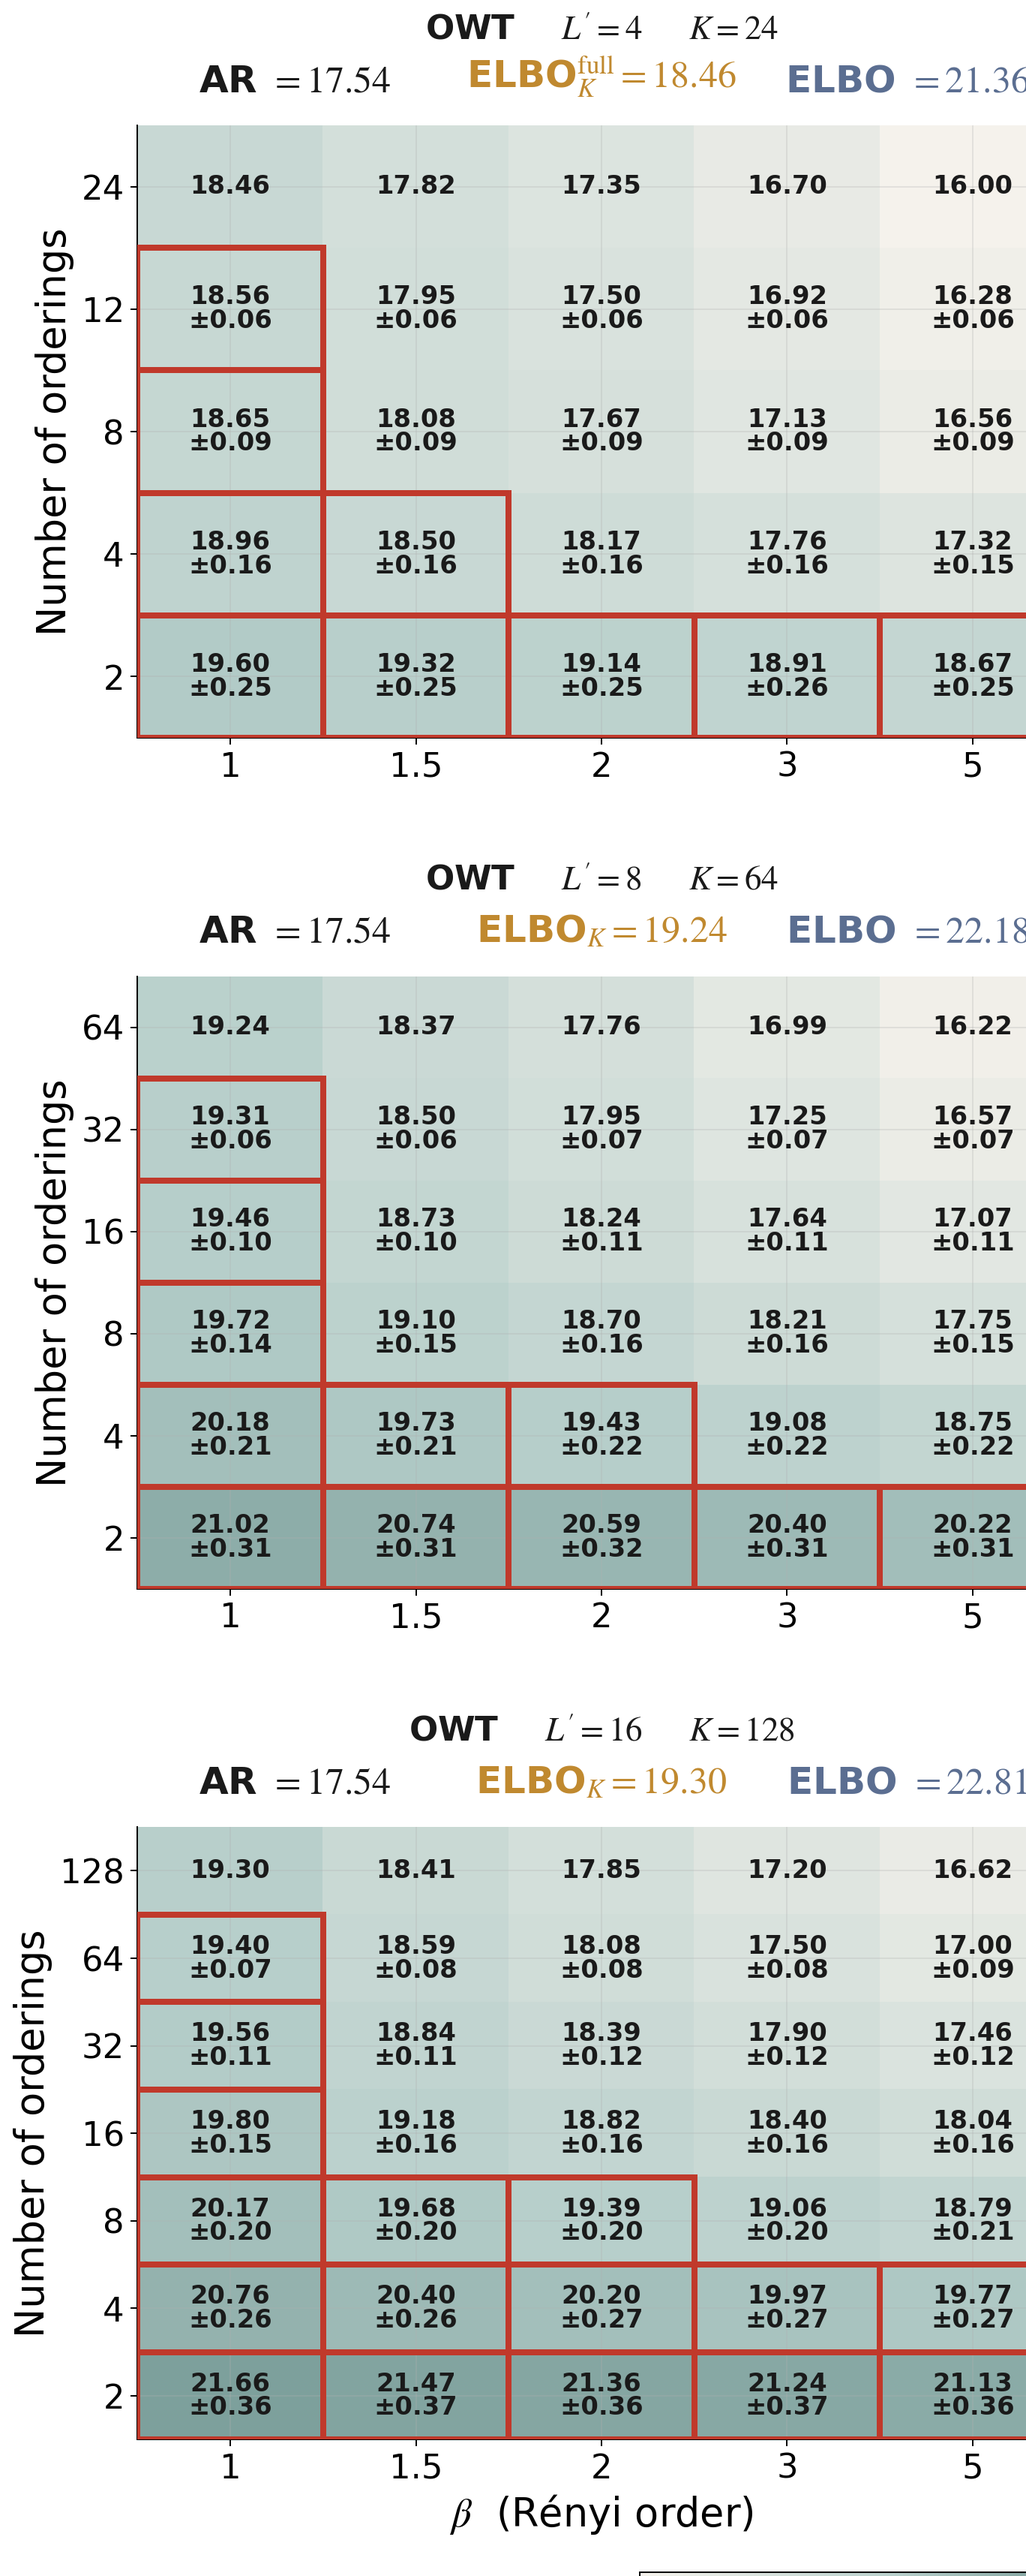
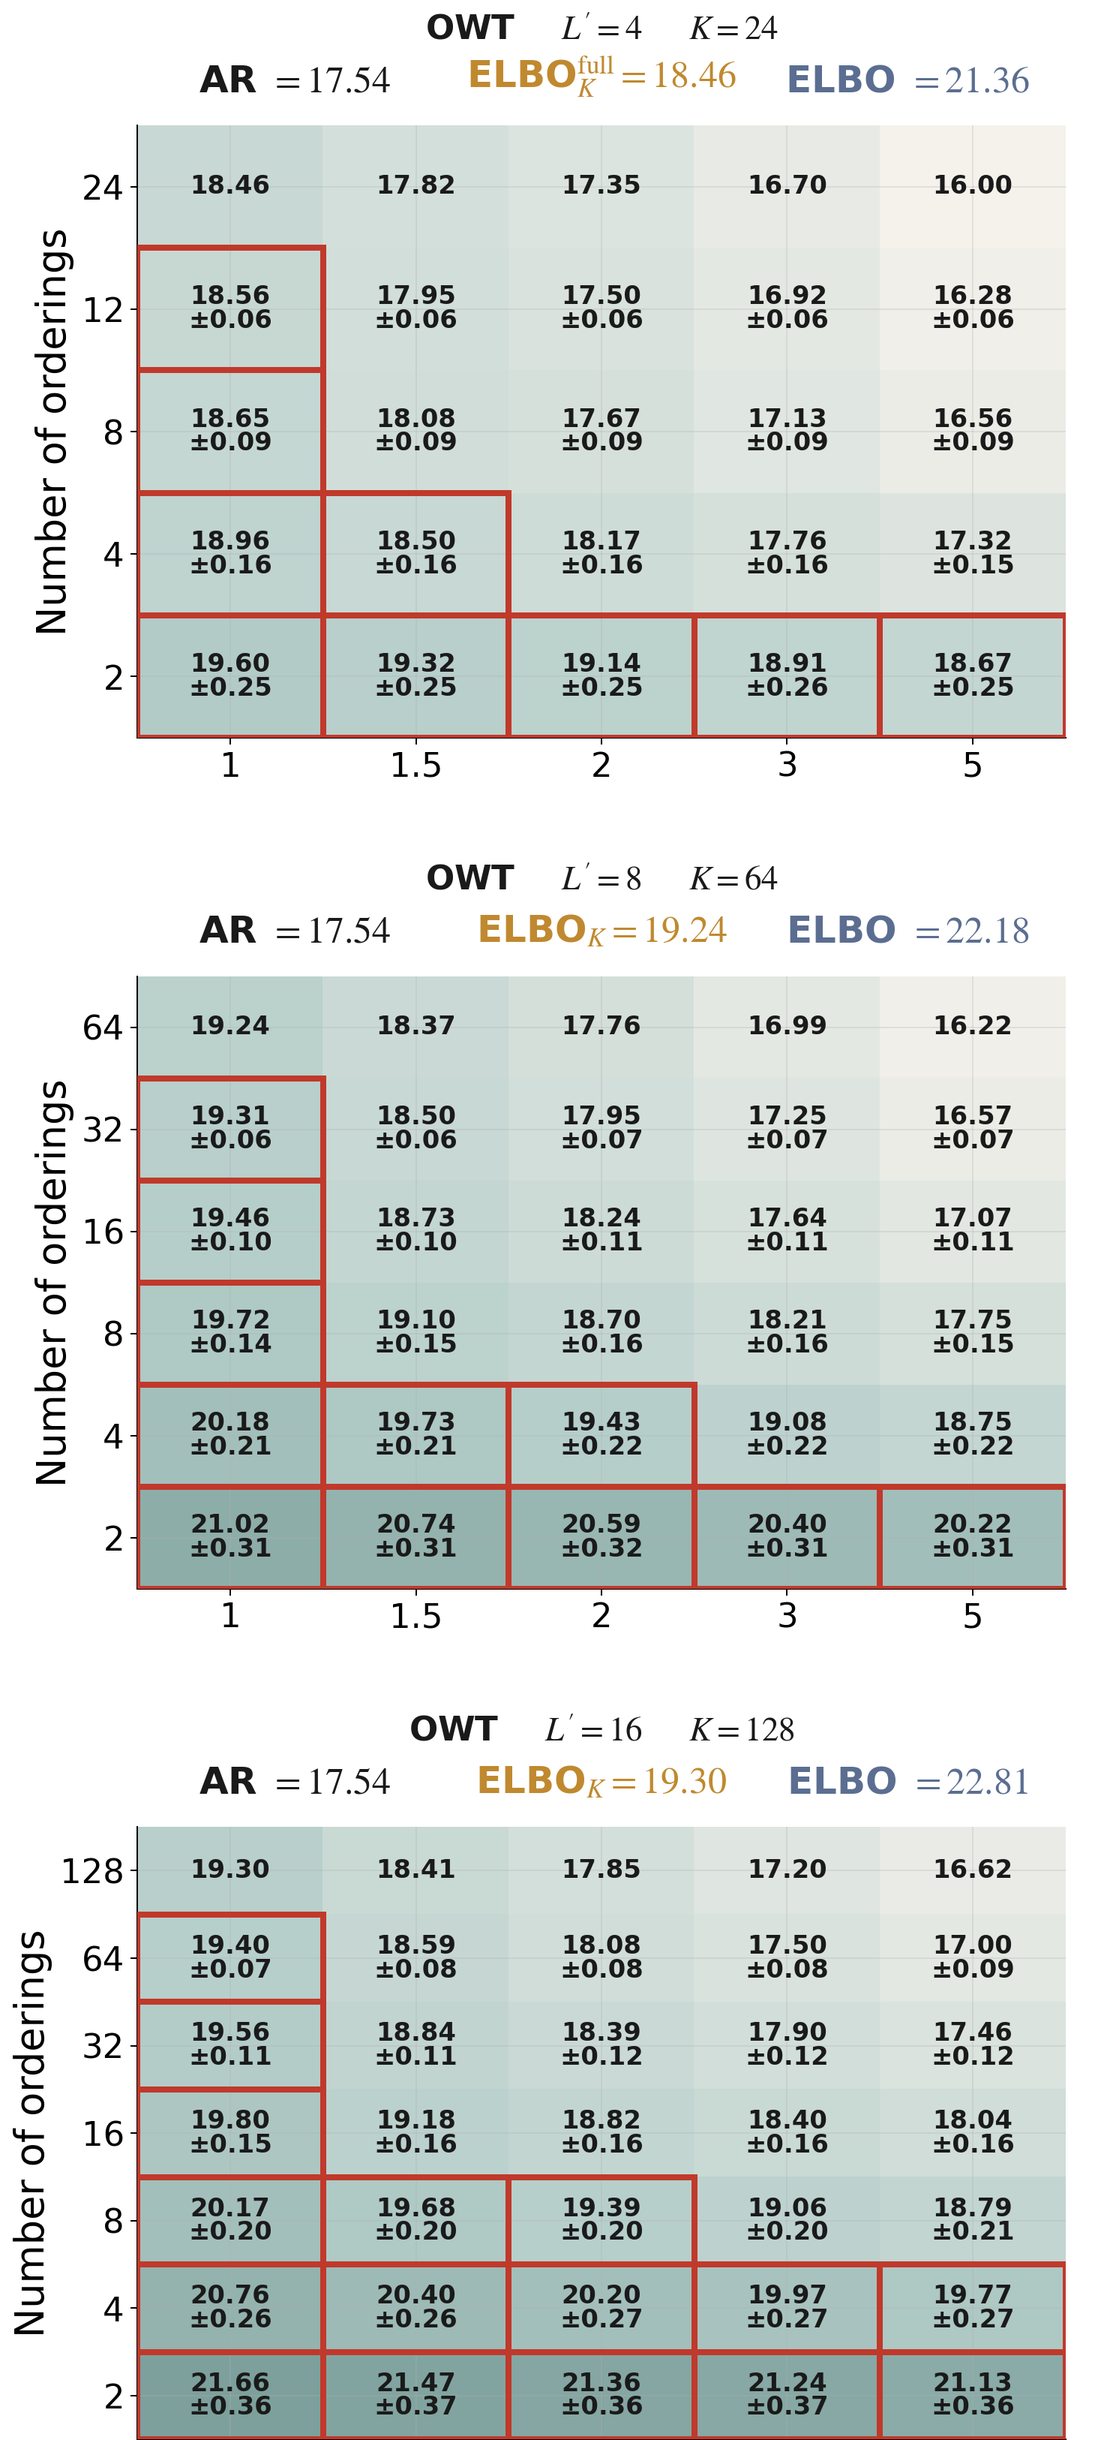
fix crop (full OWT) + white background for estimator section

diff --git a/index.html b/index.html
@@ -235,7 +235,7 @@
   </div>
 </section>
 <!-- ===================== ESTIMATOR COMPARISON ===================== -->
-<section class="section has-background-light">
+<section class="section">
   <div class="container" style="max-width:1180px;">
     <h2 class="title is-3 has-text-centered">Comparison of Likelihood Estimators</h2>
     <div class="content is-size-5 has-text-justified" style="max-width:1000px;margin:0 auto;">
